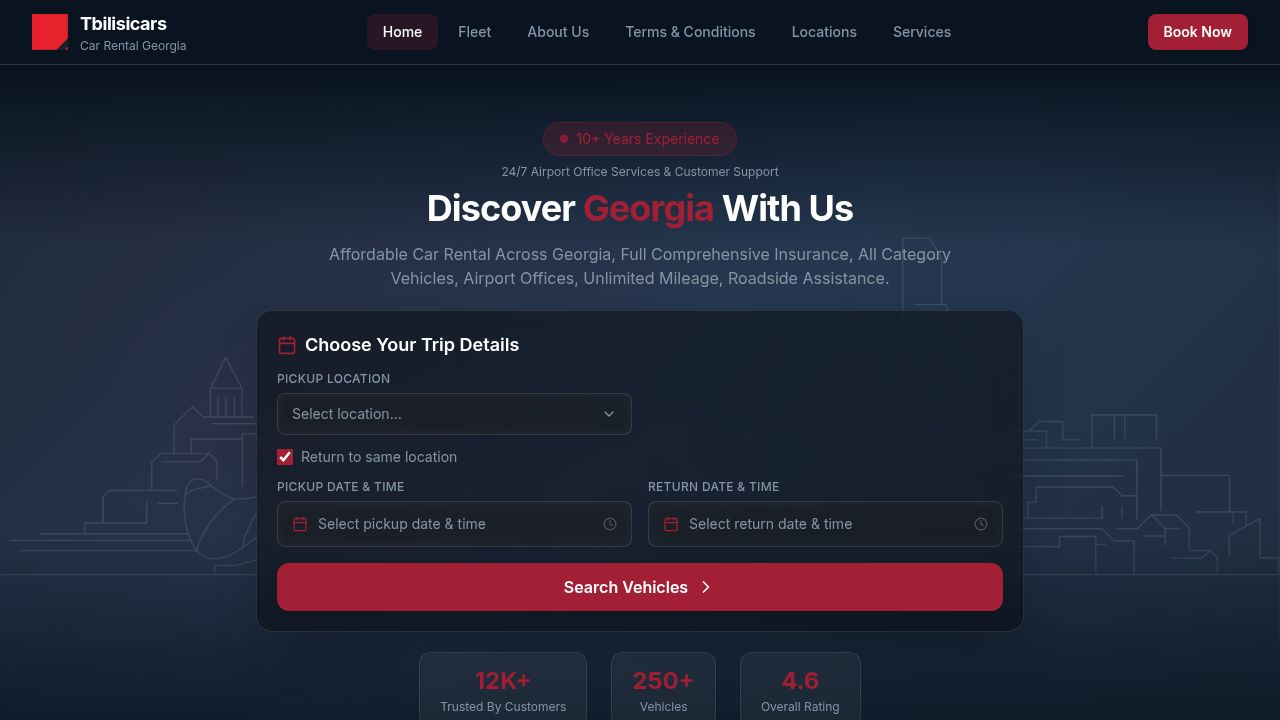
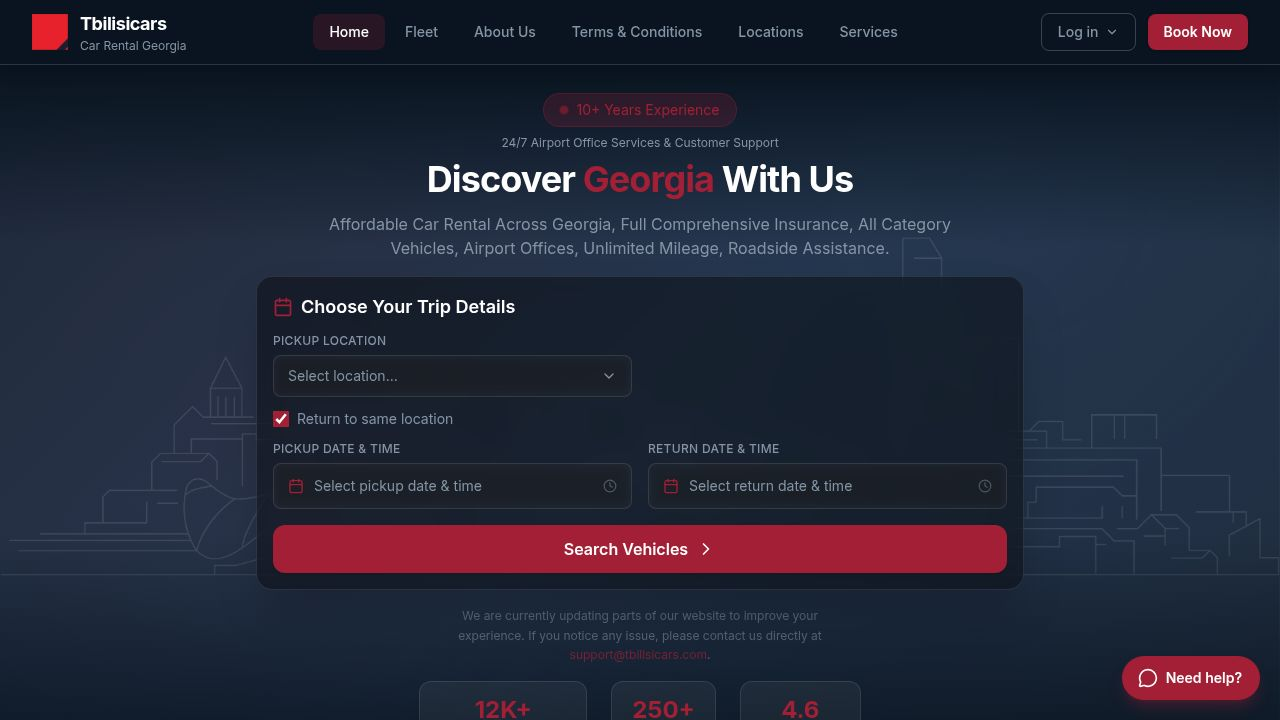
Task #101: Temp UX — Coming Soon, Homepage Notice, Location Sort
Three surgical frontend-only changes to artifacts/website:

1. Login.tsx — Customer login temporarily paused
   - Added `const COMING_SOON = true` flag at the top of the file
   - When true, renders a "Customer Cabinet Coming Soon" card with:
     - Clock icon, title, descriptive text, support email block
     - Staff Log in link preserved and always visible
   - When false (future), renders the original login form unchanged
   - The full login form code is kept intact inside the else branch

2. Home.tsx — Maintenance notice near booking section
   - Added subtle notice paragraph between the booking widget card and
     the stats strip, inside the hero section
   - Styled with muted-foreground/55 text and primary/70 email link
     to match the existing dark glassmorphism design
   - Fully responsive (max-w-sm centered paragraph)

3. Location dropdown sort — Home.tsx and Booking.tsx
   - Added `sortLocations<T extends {name, city}>()` generic helper
     to both files (deterministic, no mutation of API data)
   - Sort order: Airport(1) → Downtown(2) → Hotel(3) by type keyword;
     then Tbilisi(1) → Kutaisi(2) → Batumi(3) by city
   - Applied at the `locations` variable in both files before any
     dropdown rendering
   - Removed alphabetical `.sort()` on `cities` in TripDetailsBanner
     (Booking.tsx) so city group order follows the sorted locations
   - Dead `cities` variable in Home component body also updated
     (was never used, now also reflects sorted order)
[…]

diff --git a/artifacts/website/src/pages/Login.tsx b/artifacts/website/src/pages/Login.tsx
@@ -1,7 +1,10 @@
 import { useState } from "react";
 import { useLocation } from "wouter";
-import { LogIn, Eye, EyeOff, Shield } from "lucide-react";
+import { LogIn, Eye, EyeOff, Shield, Clock } from "lucide-react";
 import { Link } from "wouter";
+
+// Temporary flag — set to false to re-enable the customer login form
+const COMING_SOON = true;
 
 export default function Login() {
   const [, navigate] = useLocation();
@@ -50,104 +53,147 @@ export default function Login() {
       <div className="w-full max-w-md">
         {/* Card */}
         <div className="bg-card border border-border rounded-2xl shadow-xl p-8">
-          {/* Header */}
-          <div className="text-center mb-8">
-            <div className="w-14 h-14 rounded-full bg-primary/15 border border-primary/30 flex items-center justify-center mx-auto mb-4">
-              <LogIn className="w-6 h-6 text-primary" />
-            </div>
-            <h1 className="text-2xl font-bold text-white mb-1">Welcome back</h1>
-            <p className="text-sm text-muted-foreground">
-              Sign in to access your booking cabinet
-            </p>
-          </div>
-
-          {/* Form */}
-          <form onSubmit={handleSubmit} noValidate className="space-y-5">
-            {/* Error message */}
-            {error && (
-              <div className="rounded-lg border border-red-500/30 bg-red-500/10 px-4 py-3">
-                <p className="text-sm text-red-400">{error}</p>
+          {COMING_SOON ? (
+            <>
+              {/* Coming Soon header */}
+              <div className="text-center mb-8">
+                <div className="w-14 h-14 rounded-full bg-primary/15 border border-primary/30 flex items-center justify-center mx-auto mb-4">
+                  <Clock className="w-6 h-6 text-primary" />
+                </div>
+                <h1 className="text-2xl font-bold text-white mb-3">Customer Cabinet Coming Soon</h1>
+                <p className="text-sm text-muted-foreground leading-relaxed">
+                  We are currently improving our customer cabinet and it will be available soon.
+                  For immediate assistance, please contact us directly.
+                </p>
               </div>
-            )}
 
-            {/* Email */}
-            <div>
-              <label className="block text-sm font-medium text-muted-foreground mb-1.5">
-                Email address
-              </label>
-              <input
-                type="email"
-                autoComplete="email"
-                value={email}
-                onChange={(e) => setEmail(e.target.value)}
-                placeholder="you@example.com"
-                className="w-full rounded-lg border border-input bg-secondary/40 px-3.5 py-3 text-sm text-foreground placeholder:text-muted-foreground/60 focus:outline-none focus:ring-2 focus:ring-primary/60 transition-colors min-h-[44px]"
-              />
-            </div>
-
-            {/* Password */}
-            <div>
-              <label className="block text-sm font-medium text-muted-foreground mb-1.5">
-                Password
-              </label>
-              <div className="relative">
-                <input
-                  type={showPassword ? "text" : "password"}
-                  autoComplete="current-password"
-                  value={password}
-                  onChange={(e) => setPassword(e.target.value)}
-                  placeholder="Enter your password"
-                  className="w-full rounded-lg border border-input bg-secondary/40 px-3.5 py-3 pr-10 text-sm text-foreground placeholder:text-muted-foreground/60 focus:outline-none focus:ring-2 focus:ring-primary/60 transition-colors min-h-[44px]"
-                />
-                <button
-                  type="button"
-                  onClick={() => setShowPassword((v) => !v)}
-                  className="absolute right-3 top-1/2 -translate-y-1/2 text-muted-foreground hover:text-white transition-colors"
-                  aria-label={showPassword ? "Hide password" : "Show password"}
+              {/* Contact block */}
+              <div className="rounded-xl border border-primary/20 bg-primary/5 px-5 py-4 text-center mb-6">
+                <p className="text-xs text-muted-foreground mb-1.5 uppercase tracking-wide font-medium">Email us at</p>
+                <a
+                  href="mailto:support@tbilisicars.com"
+                  className="text-primary font-semibold hover:underline text-sm"
                 >
-                  {showPassword ? <EyeOff className="w-4 h-4" /> : <Eye className="w-4 h-4" />}
-                </button>
+                  support@tbilisicars.com
+                </a>
               </div>
-              <p className="mt-1.5 text-xs text-muted-foreground/50">
-                Forgot your password? Recovery is coming soon.
-              </p>
-            </div>
 
-            {/* Submit */}
-            <button
-              type="submit"
-              disabled={loading}
-              className="w-full flex items-center justify-center gap-2 bg-primary hover:bg-accent disabled:opacity-60 disabled:cursor-not-allowed text-white font-semibold px-4 py-3 rounded-lg transition-colors shadow-sm min-h-[44px]"
-            >
-              {loading ? (
-                <span className="inline-block w-4 h-4 border-2 border-white/30 border-t-white rounded-full animate-spin" />
-              ) : (
-                <LogIn className="w-4 h-4" />
-              )}
-              {loading ? "Signing in…" : "Log in"}
-            </button>
-          </form>
+              {/* Staff login link */}
+              <div className="pt-5 border-t border-border text-center">
+                <p className="text-sm text-muted-foreground">
+                  Are you a staff member?{" "}
+                  <a
+                    href="/crm/login"
+                    className="inline-flex items-center gap-1 text-muted-foreground hover:text-white font-medium transition-colors"
+                  >
+                    <Shield className="w-3.5 h-3.5" />
+                    Staff Log in
+                  </a>
+                </p>
+              </div>
+            </>
+          ) : (
+            <>
+              {/* Header */}
+              <div className="text-center mb-8">
+                <div className="w-14 h-14 rounded-full bg-primary/15 border border-primary/30 flex items-center justify-center mx-auto mb-4">
+                  <LogIn className="w-6 h-6 text-primary" />
+                </div>
+                <h1 className="text-2xl font-bold text-white mb-1">Welcome back</h1>
+                <p className="text-sm text-muted-foreground">
+                  Sign in to access your booking cabinet
+                </p>
+              </div>
 
-          {/* Footer */}
-          <div className="mt-6 pt-5 border-t border-border space-y-3 text-center">
-            <p className="text-sm text-muted-foreground">
-              Don't have an account yet?{" "}
-              <Link href="/booking" className="text-primary hover:underline font-medium">
-                Make a booking
-              </Link>{" "}
-              — your account is created automatically.
-            </p>
-            <p className="text-sm text-muted-foreground">
-              Are you a staff member?{" "}
-              <a
-                href="/crm/login"
-                className="inline-flex items-center gap-1 text-muted-foreground hover:text-white font-medium transition-colors"
-              >
-                <Shield className="w-3.5 h-3.5" />
-                Staff Log in
-              </a>
-            </p>
-          </div>
+              {/* Form */}
+              <form onSubmit={handleSubmit} noValidate className="space-y-5">
+                {/* Error message */}
+                {error && (
+                  <div className="rounded-lg border border-red-500/30 bg-red-500/10 px-4 py-3">
+                    <p className="text-sm text-red-400">{error}</p>
+                  </div>
+                )}
+
+                {/* Email */}
+                <div>
+                  <label className="block text-sm font-medium text-muted-foreground mb-1.5">
+                    Email address
+                  </label>
+                  <input
+                    type="email"
+                    autoComplete="email"
+                    value={email}
+                    onChange={(e) => setEmail(e.target.value)}
+                    placeholder="you@example.com"
+                    className="w-full rounded-lg border border-input bg-secondary/40 px-3.5 py-3 text-sm text-foreground placeholder:text-muted-foreground/60 focus:outline-none focus:ring-2 focus:ring-primary/60 transition-colors min-h-[44px]"
+                  />
+                </div>
+
+                {/* Password */}
+                <div>
+                  <label className="block text-sm font-medium text-muted-foreground mb-1.5">
+                    Password
+                  </label>
+                  <div className="relative">
+                    <input
+                      type={showPassword ? "text" : "password"}
+                      autoComplete="current-password"
+                      value={password}
+                      onChange={(e) => setPassword(e.target.value)}
+                      placeholder="Enter your password"
+                      className="w-full rounded-lg border border-input bg-secondary/40 px-3.5 py-3 pr-10 text-sm text-foreground placeholder:text-muted-foreground/60 focus:outline-none focus:ring-2 focus:ring-primary/60 transition-colors min-h-[44px]"
+                    />
+                    <button
+                      type="button"
+                      onClick={() => setShowPassword((v) => !v)}
+                      className="absolute right-3 top-1/2 -translate-y-1/2 text-muted-foreground hover:text-white transition-colors"
+                      aria-label={showPassword ? "Hide password" : "Show password"}
+                    >
+                      {showPassword ? <EyeOff className="w-4 h-4" /> : <Eye className="w-4 h-4" />}
+                    </button>
+                  </div>
+                  <p className="mt-1.5 text-xs text-muted-foreground/50">
+                    Forgot your password? Recovery is coming soon.
+                  </p>
+                </div>
+
+                {/* Submit */}
+                <button
+                  type="submit"
+                  disabled={loading}
+                  className="w-full flex items-center justify-center gap-2 bg-primary hover:bg-accent disabled:opacity-60 disabled:cursor-not-allowed text-white font-semibold px-4 py-3 rounded-lg transition-colors shadow-sm min-h-[44px]"
+                >
+                  {loading ? (
+                    <span className="inline-block w-4 h-4 border-2 border-white/30 border-t-white rounded-full animate-spin" />
+                  ) : (
+                    <LogIn className="w-4 h-4" />
+                  )}
+                  {loading ? "Signing in…" : "Log in"}
+                </button>
+              </form>
+
+              {/* Footer */}
+              <div className="mt-6 pt-5 border-t border-border space-y-3 text-center">
+                <p className="text-sm text-muted-foreground">
+                  Don't have an account yet?{" "}
+                  <Link href="/booking" className="text-primary hover:underline font-medium">
+                    Make a booking
+                  </Link>{" "}
+                  — your account is created automatically.
+                </p>
+                <p className="text-sm text-muted-foreground">
+                  Are you a staff member?{" "}
+                  <a
+                    href="/crm/login"
+                    className="inline-flex items-center gap-1 text-muted-foreground hover:text-white font-medium transition-colors"
+                  >
+                    <Shield className="w-3.5 h-3.5" />
+                    Staff Log in
+                  </a>
+                </p>
+              </div>
+            </>
+          )}
         </div>
       </div>
     </div>

diff --git a/artifacts/website/src/pages/Home.tsx b/artifacts/website/src/pages/Home.tsx
@@ -98,6 +98,26 @@ const WHY_CARDS = [
   },
 ];
 
+function sortLocations<T extends { name: string; city: string }>(locs: T[]): T[] {
+  function typePriority(name: string): number {
+    if (name.includes("Airport")) return 1;
+    if (name.includes("Downtown")) return 2;
+    if (name.includes("Hotel")) return 3;
+    return 4;
+  }
+  function cityPriority(city: string): number {
+    if (city === "Tbilisi") return 1;
+    if (city === "Kutaisi") return 2;
+    if (city === "Batumi") return 3;
+    return 4;
+  }
+  return [...locs].sort((a, b) => {
+    const dt = typePriority(a.name) - typePriority(b.name);
+    if (dt !== 0) return dt;
+    return cityPriority(a.city) - cityPriority(b.city);
+  });
+}
+
 interface LocationOption { id: number; name: string; city: string; }
 function LocationSelect({
   value, onChange, options, placeholder,
@@ -199,8 +219,8 @@ export default function Home() {
     el.scrollBy({ left: dir === "left" ? -340 : 340, behavior: "smooth" });
   }
 
-  const locations = config?.locations ?? [];
-  const cities = Array.from(new Set(locations.map((l) => l.city))).sort();
+  const locations = sortLocations(config?.locations ?? []);
+  const cities = Array.from(new Set(locations.map((l) => l.city)));
 
   useEffect(() => {
     if (sameLocation) setDropoffLocationId(pickupLocationId);
@@ -365,6 +385,18 @@ export default function Home() {
               <ChevronRight className="w-5 h-5" />
             </button>
           </div>
+
+          {/* Maintenance notice */}
+          <p className="mt-4 text-xs text-muted-foreground/55 text-center max-w-sm mx-auto leading-relaxed">
+            We are currently updating parts of our website to improve your experience.
+            If you notice any issue, please contact us directly at{" "}
+            <a
+              href="mailto:support@tbilisicars.com"
+              className="text-primary/70 hover:text-primary transition-colors"
+            >
+              support@tbilisicars.com
+            </a>.
+          </p>
 
           {/* Stats strip */}
           <div className="flex flex-wrap justify-center gap-6 mt-6 lg:mt-4">

diff --git a/artifacts/website/src/pages/Booking.tsx b/artifacts/website/src/pages/Booking.tsx
@@ -137,6 +137,26 @@ function toStorageSrc(path: string | null | undefined): string | undefined {
 
 function cn(...cls: (string | undefined | false | null)[]) { return cls.filter(Boolean).join(" "); }
 
+function sortLocations<T extends { name: string; city: string }>(locs: T[]): T[] {
+  function typePriority(name: string): number {
+    if (name.includes("Airport")) return 1;
+    if (name.includes("Downtown")) return 2;
+    if (name.includes("Hotel")) return 3;
+    return 4;
+  }
+  function cityPriority(city: string): number {
+    if (city === "Tbilisi") return 1;
+    if (city === "Kutaisi") return 2;
+    if (city === "Batumi") return 3;
+    return 4;
+  }
+  return [...locs].sort((a, b) => {
+    const dt = typePriority(a.name) - typePriority(b.name);
+    if (dt !== 0) return dt;
+    return cityPriority(a.city) - cityPriority(b.city);
+  });
+}
+
 function formatDT(iso: string) {
   if (!iso) return "—";
   return new Date(iso).toLocaleString("en-GB", { day: "2-digit", month: "short", year: "numeric", hour: "2-digit", minute: "2-digit", timeZone: "Asia/Tbilisi", hour12: false });
@@ -612,7 +632,7 @@ function TripDetailsBanner({ form, setForm, locations, onClose }: {
   form: FormData; setForm: React.Dispatch<React.SetStateAction<FormData>>; locations: Location[];
   onClose?: () => void;
 }) {
-  const cities = Array.from(new Set(locations.map((l) => l.city))).sort();
+  const cities = Array.from(new Set(locations.map((l) => l.city)));
   const LocOpts = ({ value, onChange }: { value: string; onChange: (v: string) => void }) => (
     <Sel value={value} onChange={(e) => onChange(e.target.value)}>
       <option value="">Select location…</option>
@@ -2205,7 +2225,7 @@ export default function Booking() {
   );
 
   const models = config?.vehicleModels ?? [];
-  const locations = config?.locations ?? [];
+  const locations = sortLocations(config?.locations ?? []);
   const extras = config?.extras ?? [];
 
   // ── Step 1: dedicated layout — stepper above, true left-rail + vehicle grid ──
